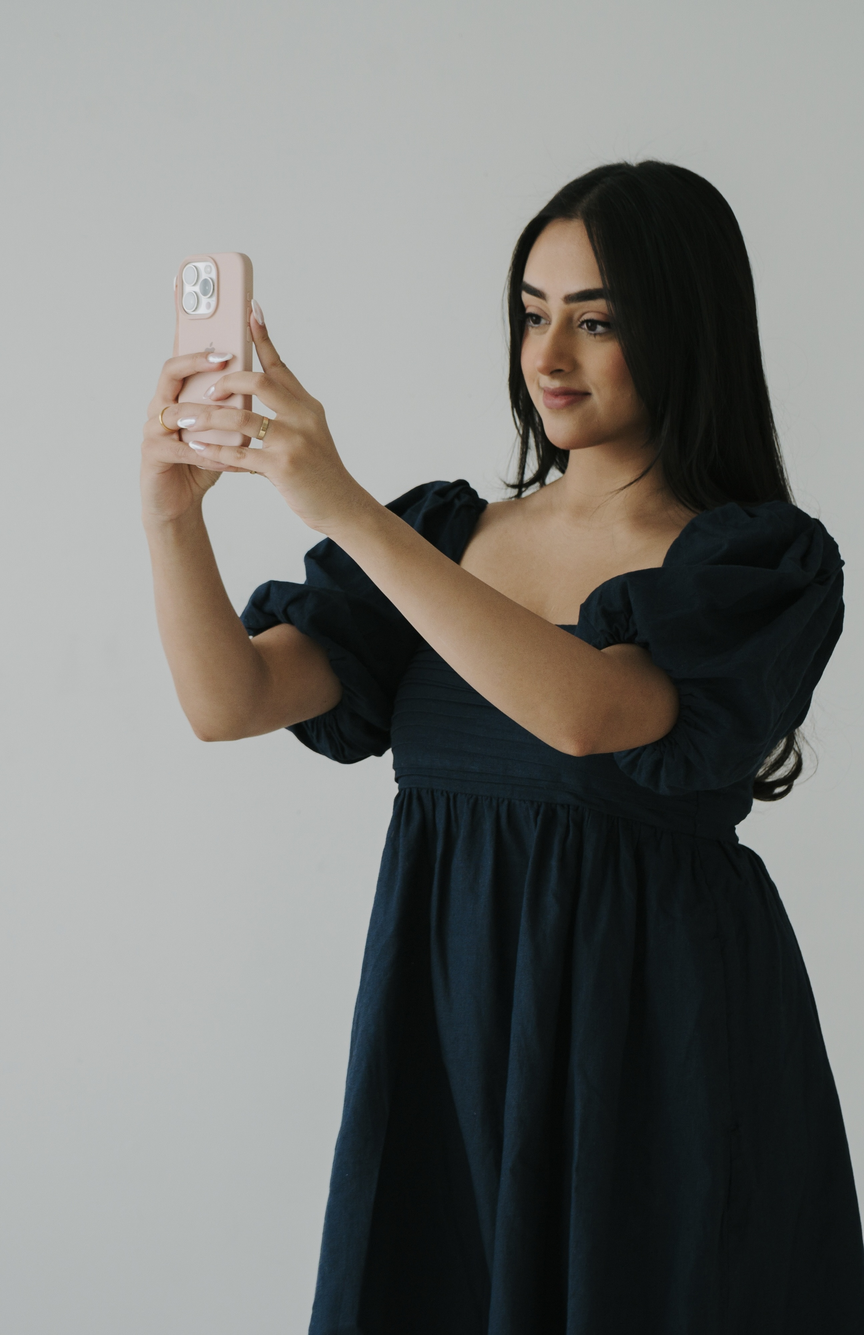
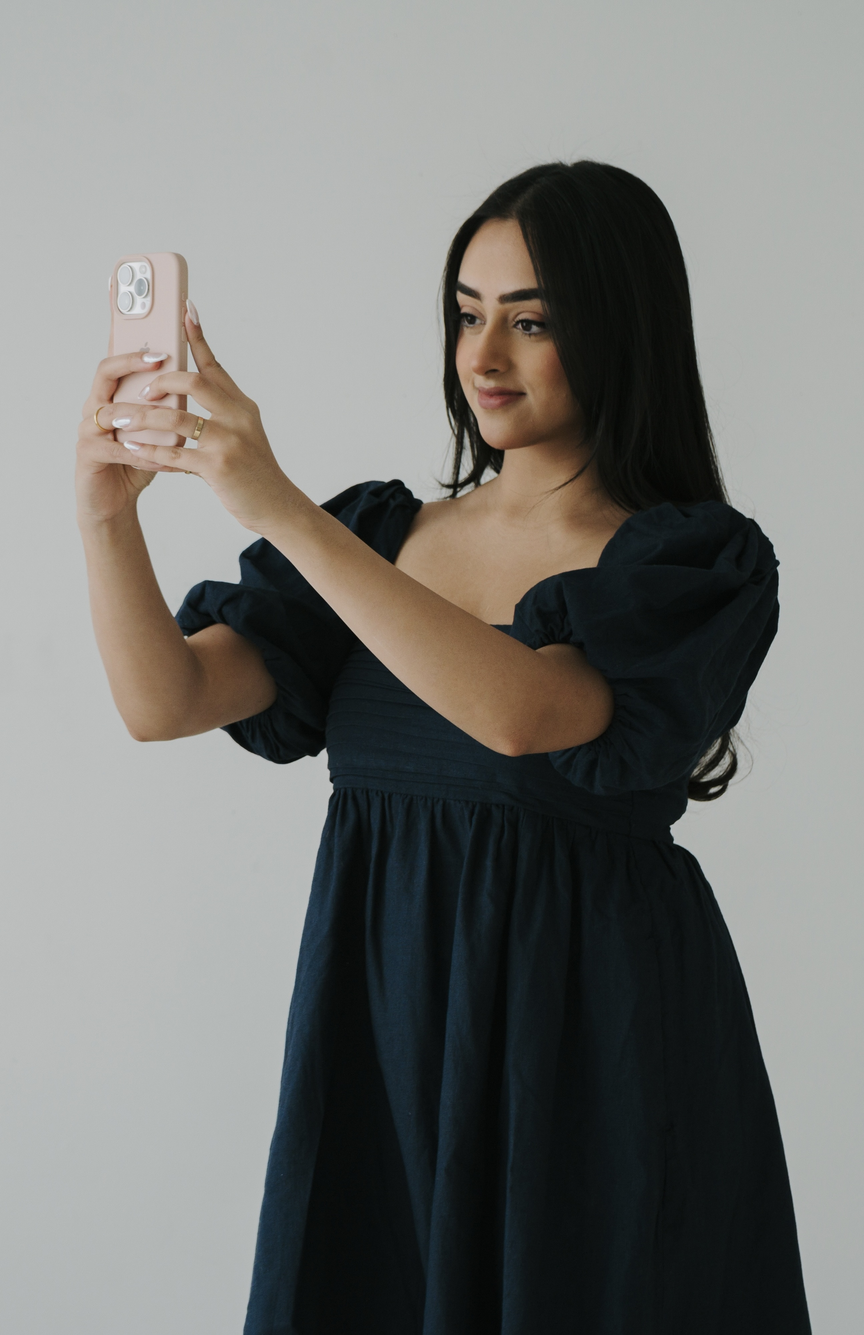
videos text on main

diff --git a/public/css/footer.css b/public/css/footer.css
@@ -6,18 +6,18 @@
     border-radius: 15px;
   }
   
-  /* Make sure the image fills the card area */
+  
   .sage-date .card-img {
     width: 100%;
     height: 100%;
     object-fit: cover;
-    filter: brightness(95%); /* optional for text contrast */
+    filter: brightness(95%); 
   }
   
-  /* Overlay container */
+
   .sage-date .sage-content {
     position: absolute;
-    top: 50%;
+    top: 55%;
     left: 50%;
     transform: translate(-50%, -50%);
     text-align: center;
@@ -25,17 +25,18 @@
     z-index: 2;
   }
   
-  /* Heading */
+
   .sage-date p.sage {
     font-family: "Manrope", sans-serif;
     letter-spacing: 2.5px;
     text-transform: uppercase;
     font-size: 80px;
+    font-weight: 100;
     color: #707f62;
     margin-bottom: 25px;
   }
   
-  /* Button styling */
+
   .sage-date a.btn {
     font-family: "Manrope", sans-serif;
     font-weight: 500;
